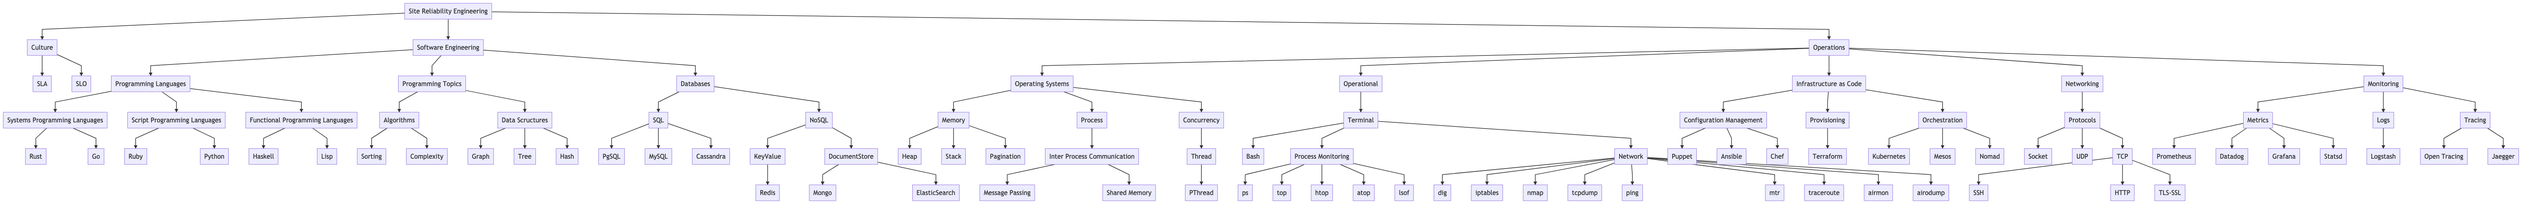
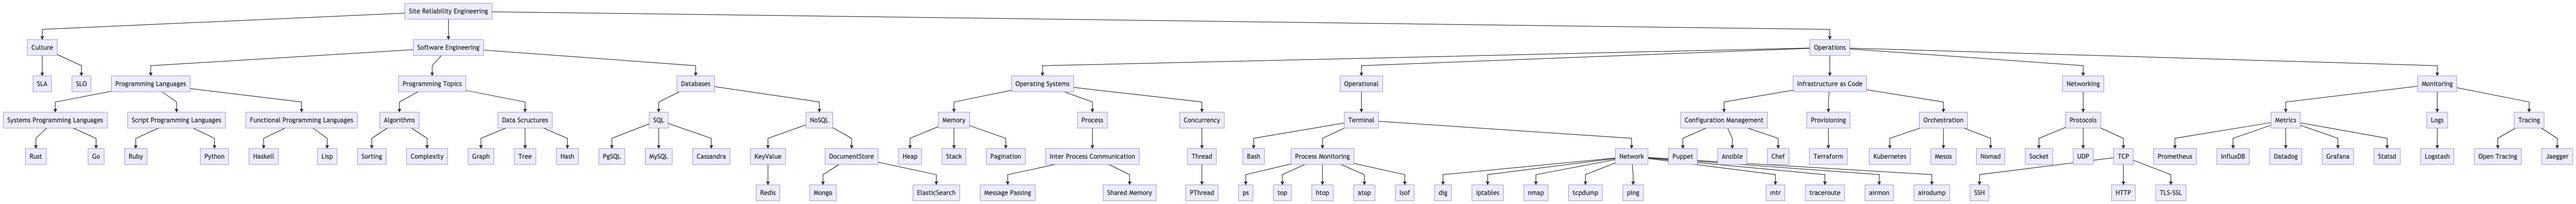
Add influx db and a talk

diff --git a/README.md b/README.md
@@ -160,6 +160,8 @@ At the moment this is not useful for anyone but myself, if at some point I find 
       * Metrics
         * Prometheus
           * [Prometheus: Up & Running: Infrastructure and Application Performance Monitoring](https://www.amazon.de/gp/product/1492034142?pf_rd_p=99260c3e-e149-406d-b475-c299891fcd91&pf_rd_r=M0874DR76K58PTVG1NV7) 📕 💰
+        * InfluxDB
+          * [InfluxDB - Time Series Database](https://www.youtube.com/watch?v=2SUBRE6wGiA) 📼 🆓
     * Infrastructure as Code
       * [What is IaC?](https://www.youtube.com/watch?v=RO7VcUAsf-I) 📼 🆓
       * [Getting Started with IaC](https://www.youtube.com/watch?v=G3D14I5_NIk) 📼 🆓
